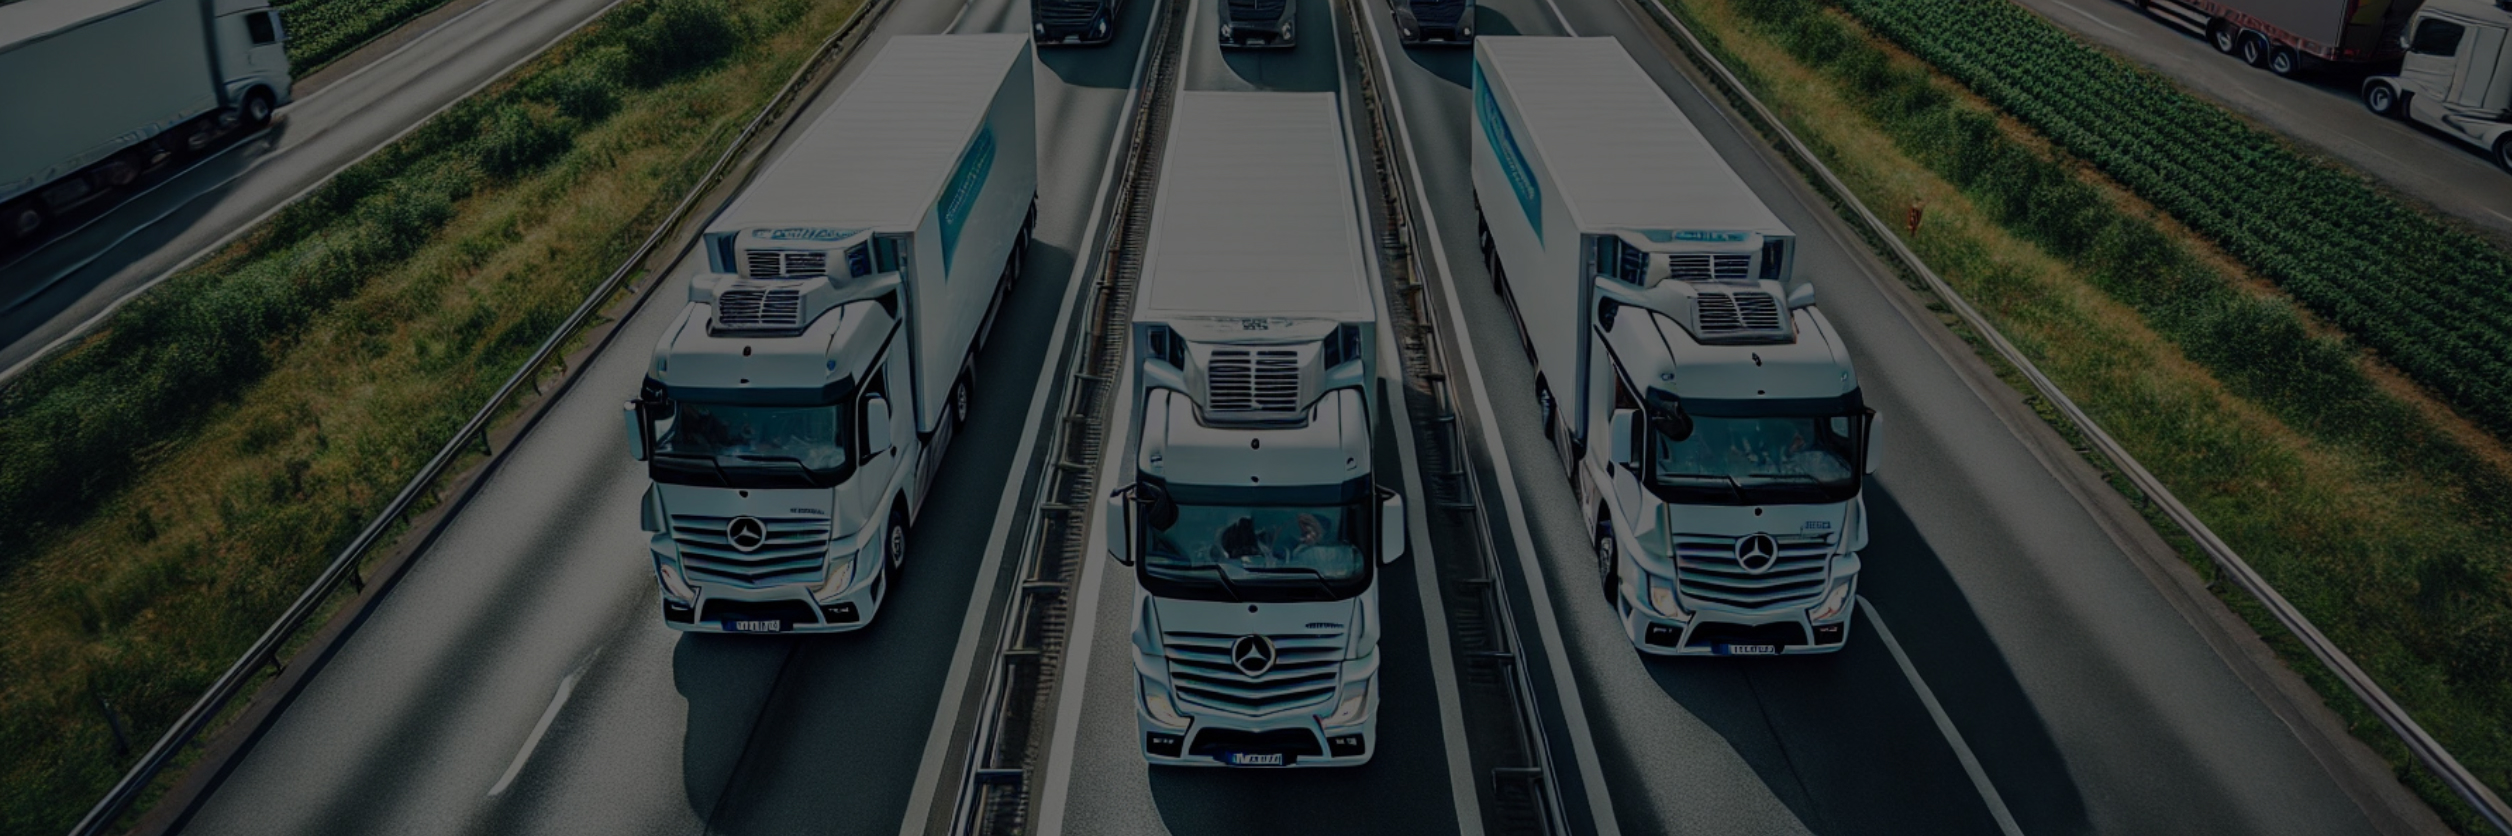
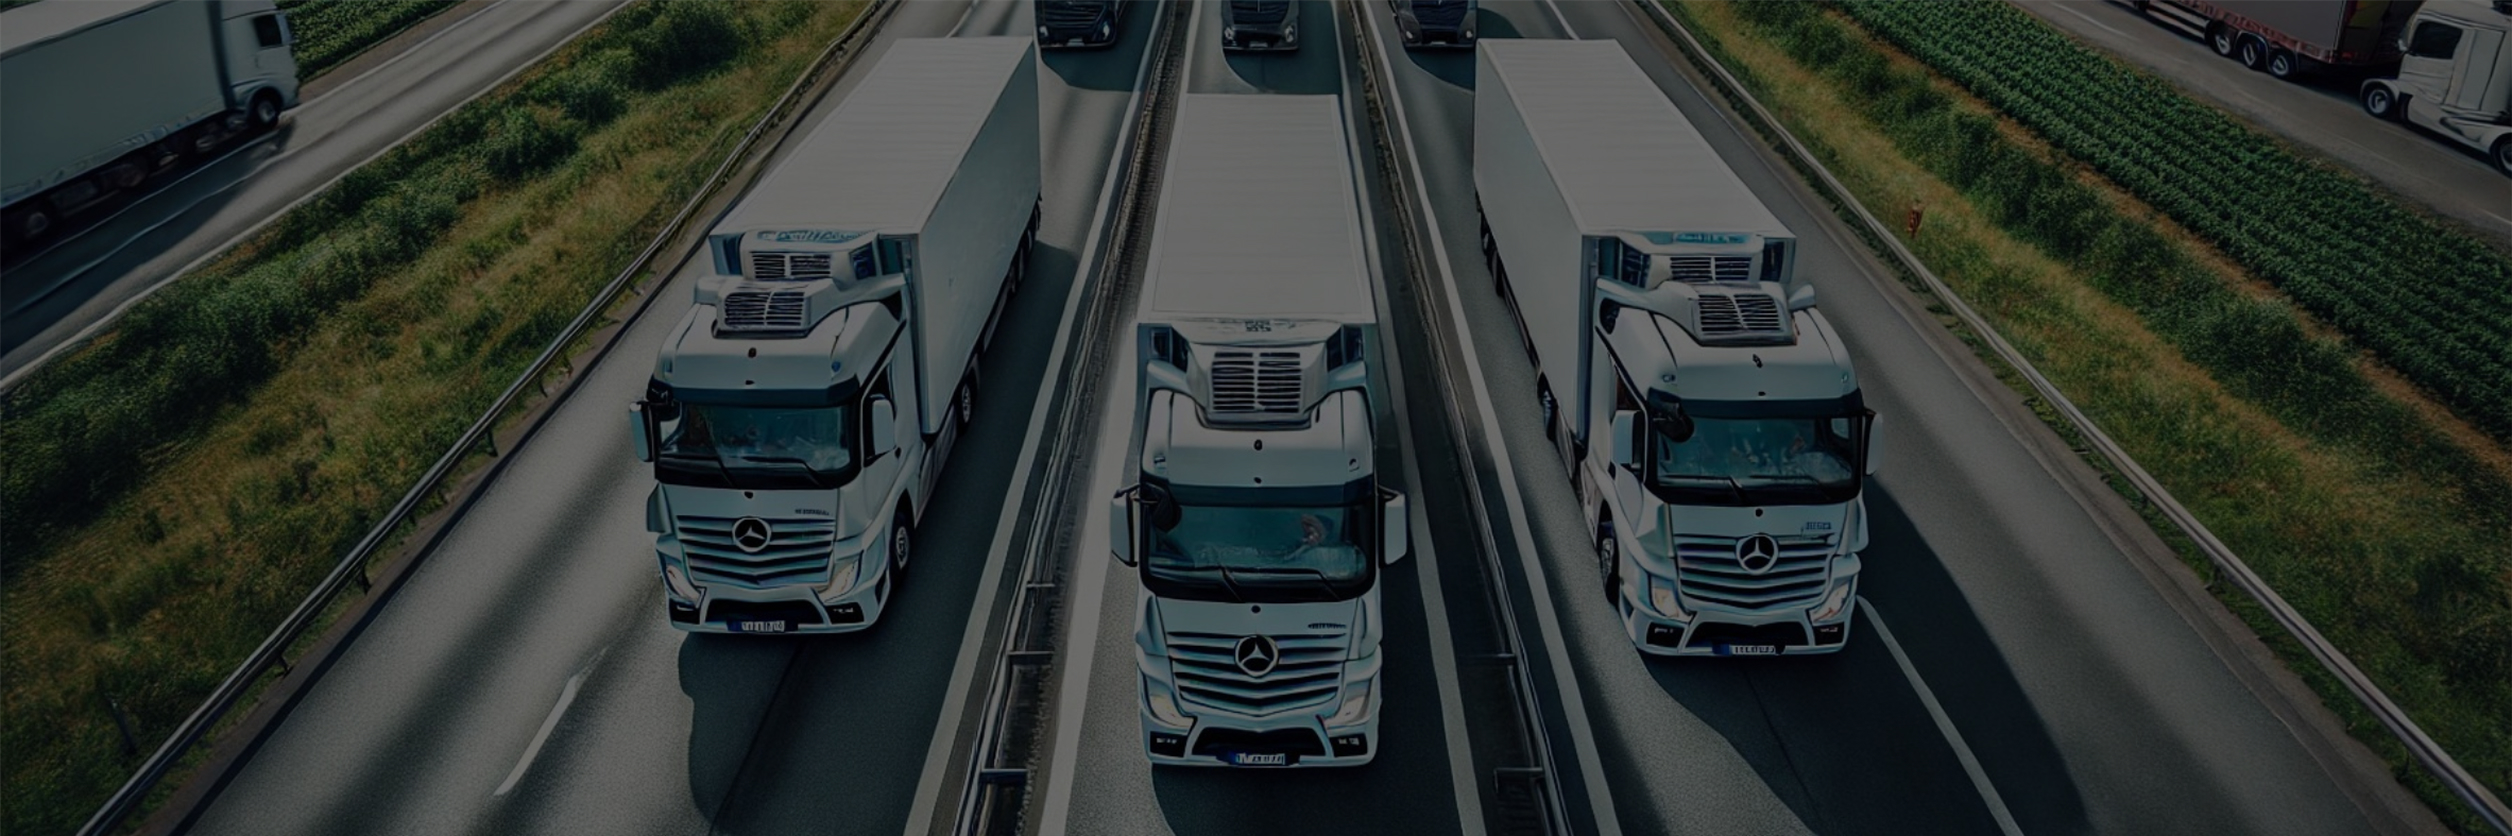
fix: bg img fix

diff --git a/about.css b/about.css
@@ -890,7 +890,7 @@ ul {
   }
   .about-us-container {
     flex-direction: column-reverse;
-    padding: 0 50px;
+    padding: 0 30px;
   }
   .about-us-arrow {
     min-height: 300px;
@@ -939,7 +939,7 @@ ul {
     font-size: 18px;
   }
   .about-hero {
-    height: 40vh;
+    height: 60vh;
   }
   .choose-us-card {
     flex: 0 0 70%;

diff --git a/services.css b/services.css
@@ -946,6 +946,12 @@ ul {
     font-size: 18px;
   }
 }
+@media (max-width: 419px) {
+  .swiper {
+    padding: 0 20px !important;
+    box-sizing: border-box;
+  }
+}
 /* * {
     border: 1px solid red;
   } */
